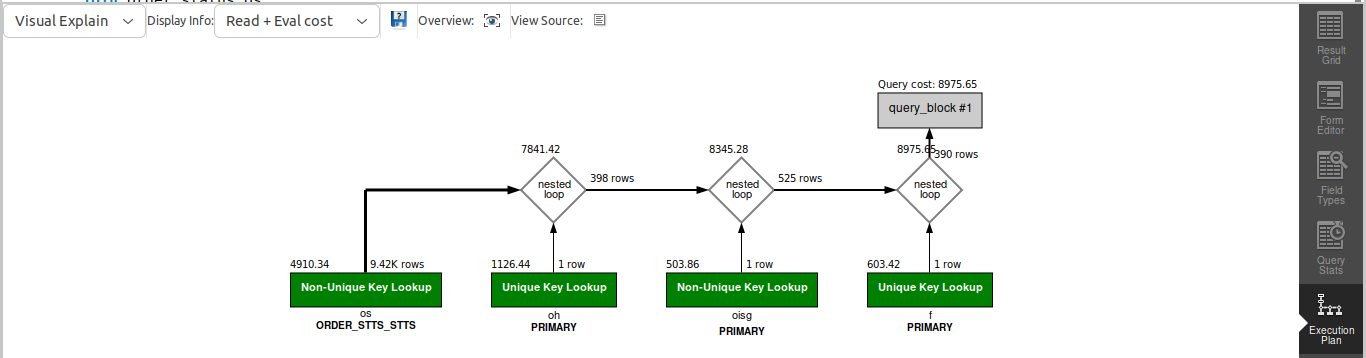
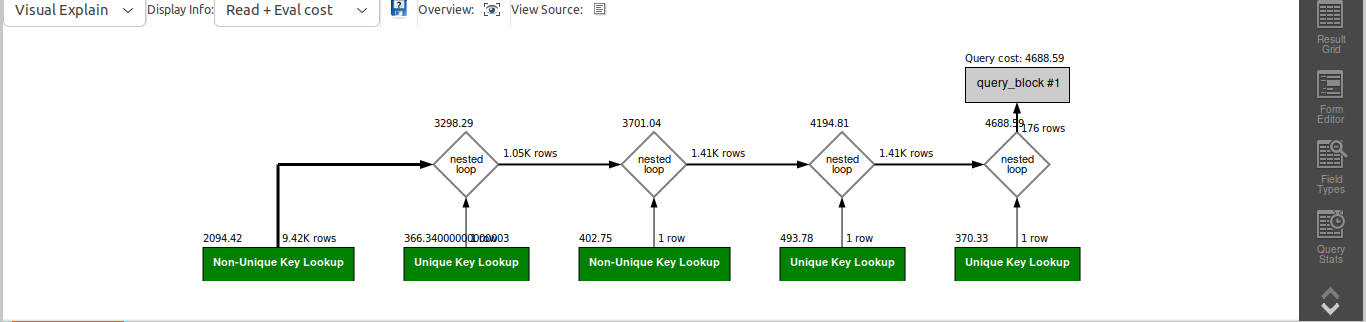
Improved query 2 by using parent type for stores

diff --git a/query-2/query-2.md b/query-2/query-2.md
@@ -11,12 +11,12 @@ select
 from 
   order_header oh 
   join order_status os on oh.order_id = os.order_id 
-  and oh.STATUS_ID = "ORDER_COMPLETED" 
   and os.STATUS_ID = "ORDER_COMPLETED" 
   join order_item_ship_group oisg on oisg.order_id = os.order_id 
   join facility f on f.FACILITY_ID = oisg.FACILITY_ID 
+  join facility_type ft on ft.facility_type_id = f.facility_type_id
 where 
-  f.FACILITY_TYPE_ID in ("RETAIL_STORE", "OUTLET_STORE") 
+  ft.PARENT_TYPE_ID = "PHYSICAL_STORE"
   and os.STATUS_DATETIME >= DATE_SUB("2024-01-01", INTERVAL 25 DAY) 
   and os.STATUS_DATETIME < "2024-01-01";
 
@@ -29,3 +29,4 @@ where
 ## QUERY COST 
 
 ![Alt text](image-1.png)
+Cost : 4688 
